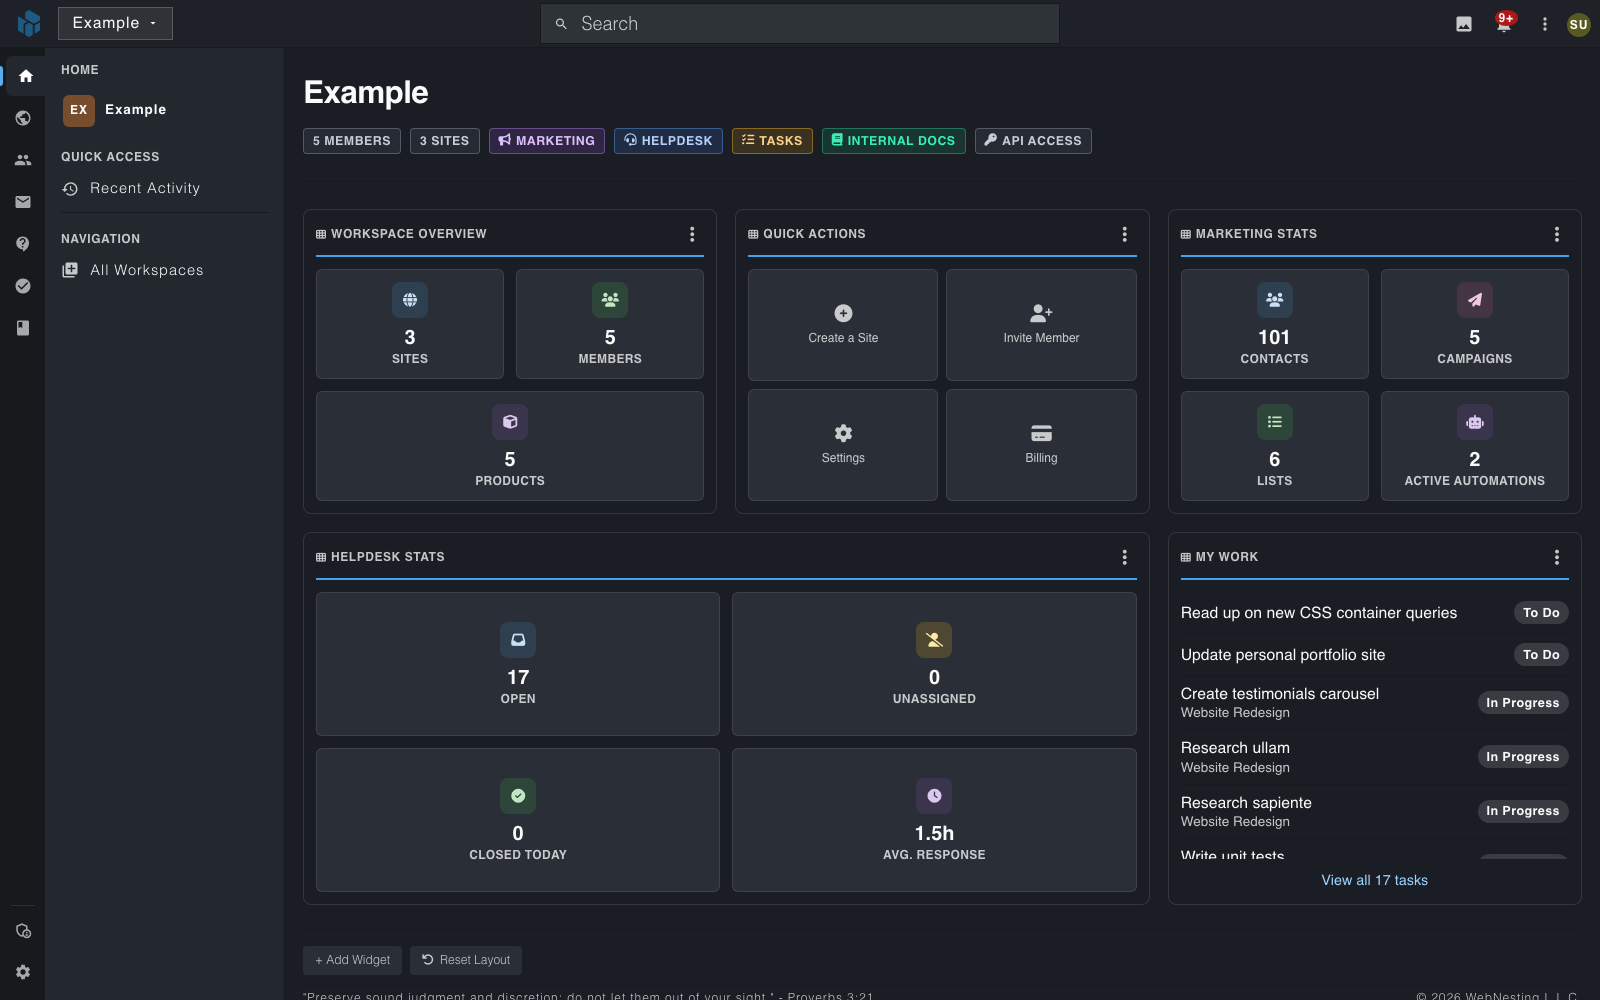
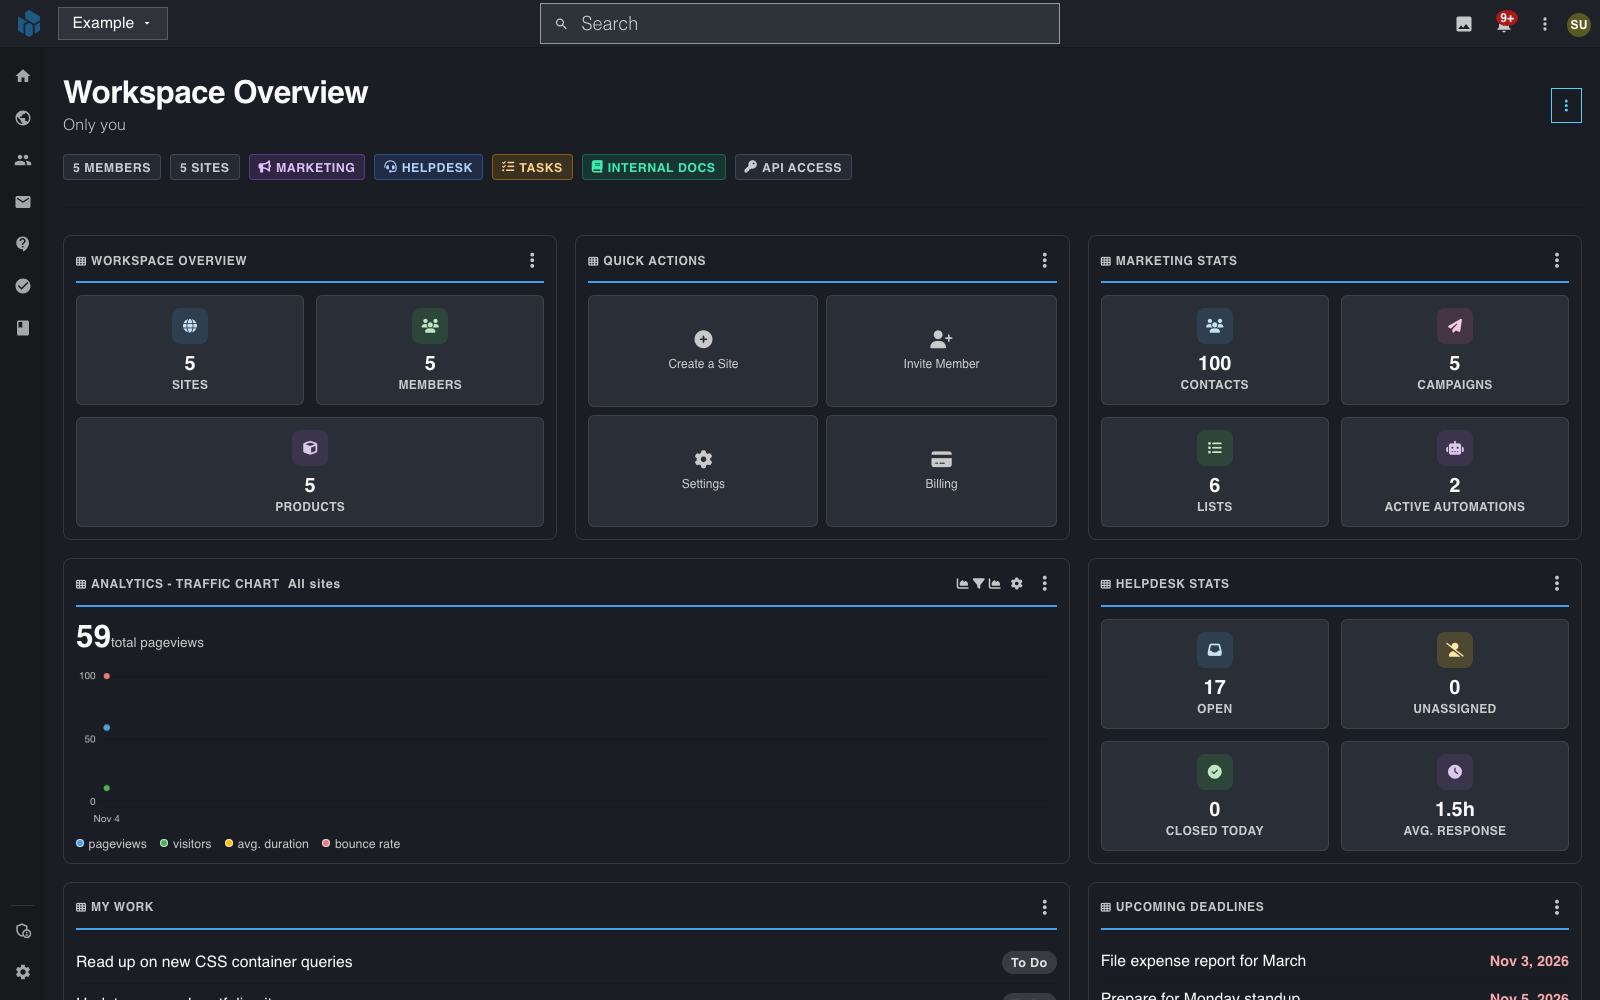
docs(getting-started): refresh the workspace home guide
Add the Analytics and Upcoming Deadlines cards, the product chips and the full Add a widget list. Add two pictures: the Add a widget window and the Helpdesk menu.

Why: the card list was out of date and the guide had no picture of the widget picker.

diff --git a/getting-started/your-workspace-home.md b/getting-started/your-workspace-home.md
@@ -1,6 +1,6 @@
 # Your Workspace Home: A Quick Daily Check-In
 
-**Last verified:** 2026-11-01
+**Last verified:** 2026-11-07 9:40am
 
 Your workspace home shows the numbers you check most, on one screen. If your workspace has Marketing, Helpdesk and Tasks turned on, you can see your email results, your open tickets and your own tasks without opening each area. This guide shows a short daily routine that stays inside WebNesting.
 
@@ -15,8 +15,10 @@ Sign in and click your workspace. The home screen opens with cards. You may see:
 - **Workspace Overview** -- how many sites, members and products the workspace has
 - **Quick Actions** -- shortcuts such as **Create a Site** and **Invite Member**
 - **Marketing Stats** -- your contacts, campaigns, lists and active automations
+- **Analytics - Traffic Chart**: pageviews, visitors, average duration and bounce rate for all your sites, or for one site you pick in the card's settings
 - **Helpdesk Stats** -- open tickets, unassigned tickets, tickets closed today and the average response time
 - **My Work** -- the tasks assigned to you
+- **Upcoming Deadlines**: the tasks due soon, with the nearest date first
 - **Usage and Cost** -- this month's charges so far, your estimated total, your bill by product and a usage chart
 - **Website Bandwidth** -- the GB your websites sent this month, the free GB left, and your top sites and files
 - **Email Reputation** -- your bounce and complaint rates, your sending status and your daily sends
@@ -24,7 +26,15 @@ Sign in and click your workspace. The home screen opens with cards. You may see:
 - **Media Library** -- how many files you have and how much storage they use, by file type
 - **Workspace Activity** -- the latest changes in your workspace and who made them
 
-The Marketing, Helpdesk and My Work cards appear only when that product is turned on for the workspace. The account cards (Usage and Cost, Website Bandwidth, Email Reputation, API Usage, Media Library and Workspace Activity) are not on by default: click **Add Widget** to add one. You see one only if you have permission to see its data. For example, Usage and Cost needs permission to see **Billing**. To change what shows, click **Add Widget** or **Reset Layout** at the bottom of the screen.
+Under the title, a row of chips shows your member and site counts and the products that are on, such as **Marketing**, **Helpdesk**, **Tasks**, **Internal Docs** and **API Access**.
+
+The Marketing, Helpdesk and My Work cards appear only when that product is turned on for the workspace. Other cards are not on by default: click **Add Widget** to add one. These include Team Workload, Team Inbox, Team Activity, Contacts Growth, Usage and Cost, Website Bandwidth, Email Reputation, API Usage, Media Library and Workspace Activity. You see one only if you have permission to see its data. For example, Usage and Cost needs permission to see **Billing**.
+
+Cards marked **Per site** start on all your sites. Pick one site in the card's settings.
+
+To change what shows, click **Add Widget** or **Reset Layout** at the bottom of the screen.
+
+![The Add a widget window listing the cards you can add, from Workspace Overview to Usage and Cost](../images/getting-started/workspace-home-add-widget.png)
 
 ---
 
@@ -34,6 +44,8 @@ The Marketing, Helpdesk and My Work cards appear only when that product is turne
 
 1. Click **Helpdesk** in the left bar.
 2. In the menu that opens, click **Unclaimed**.
+
+![The Helpdesk menu with Unclaimed ringed, beside the workspace home cards](../images/getting-started/workspace-home-helpdesk-unclaimed.png)
 
 If you see **No tickets found**, nobody is waiting for a first reply. If tickets are listed, open one and assign it to someone.
 
